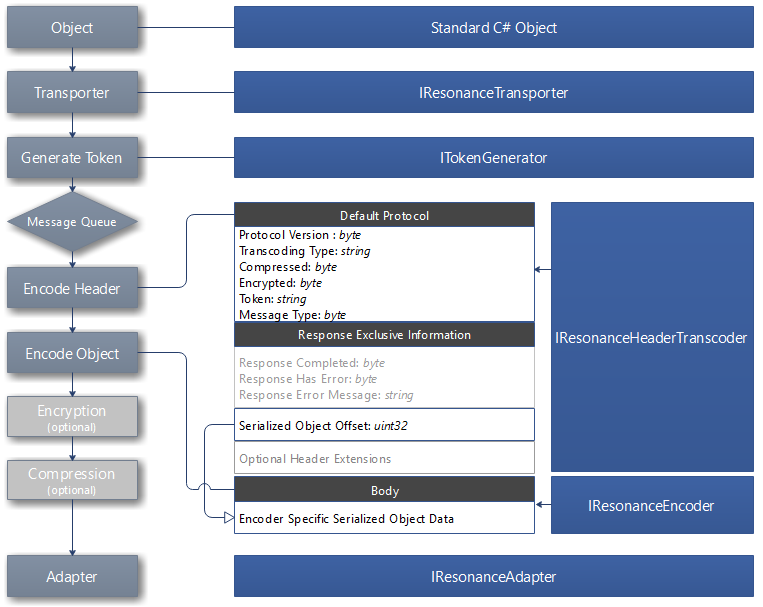
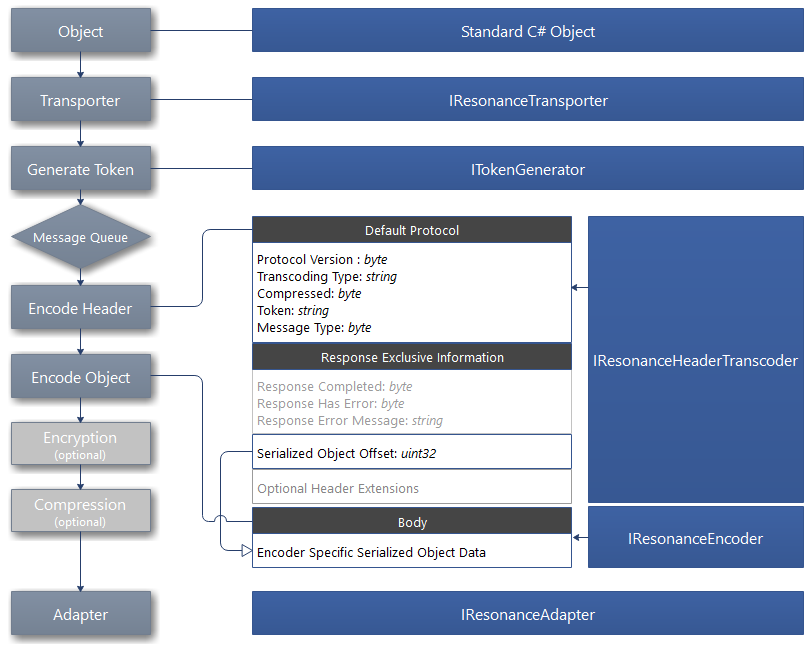
dropped Encrypted from header. visuals updated.

diff --git a/source/Resonance/ResonanceDefaultHeaderTranscoder.cs b/source/Resonance/ResonanceDefaultHeaderTranscoder.cs
@@ -26,7 +26,6 @@ namespace Resonance
             writer.Write(ProtocolVersion);
             writer.Write(info.Transcoding ?? String.Empty);
             writer.Write(info.IsCompressed);
-            writer.Write(info.IsEncrypted);
             writer.Write(info.Token);
             writer.Write((byte)info.Type);
 
@@ -51,7 +50,6 @@ namespace Resonance
             info.ProtocolVersion = reader.ReadByte();
             info.Transcoding = reader.ReadString();
             info.IsCompressed = reader.ReadBoolean();
-            info.IsEncrypted = reader.ReadBoolean();
             info.Token = reader.ReadString();
             info.Type = (ResonanceTranscodingInformationType)reader.ReadByte();
 

diff --git a/source/Resonance/ResonanceTranscodingInformation.cs b/source/Resonance/ResonanceTranscodingInformation.cs
@@ -20,11 +20,6 @@ namespace Resonance
         public bool IsCompressed { get; set; }
 
         /// <summary>
-        /// Gets or sets a value indicating whether to enable encryption decryption.
-        /// </summary>
-        public bool IsEncrypted { get; set; }
-
-        /// <summary>
         /// Gets or sets the type of the message.
         /// </summary>
         public ResonanceTranscodingInformationType Type { get; set; }

diff --git a/source/Resonance/ResonanceEncoder.cs b/source/Resonance/ResonanceEncoder.cs
@@ -46,7 +46,6 @@ namespace Resonance
         public virtual byte[] Encode(ResonanceEncodingInformation info)
         {
             info.IsCompressed = CompressionConfiguration.Enabled;
-            info.IsEncrypted = EncryptionConfiguration.Enabled;
             info.Transcoding = _transcodingName;
 
             using (MemoryStream ms = new MemoryStream())
